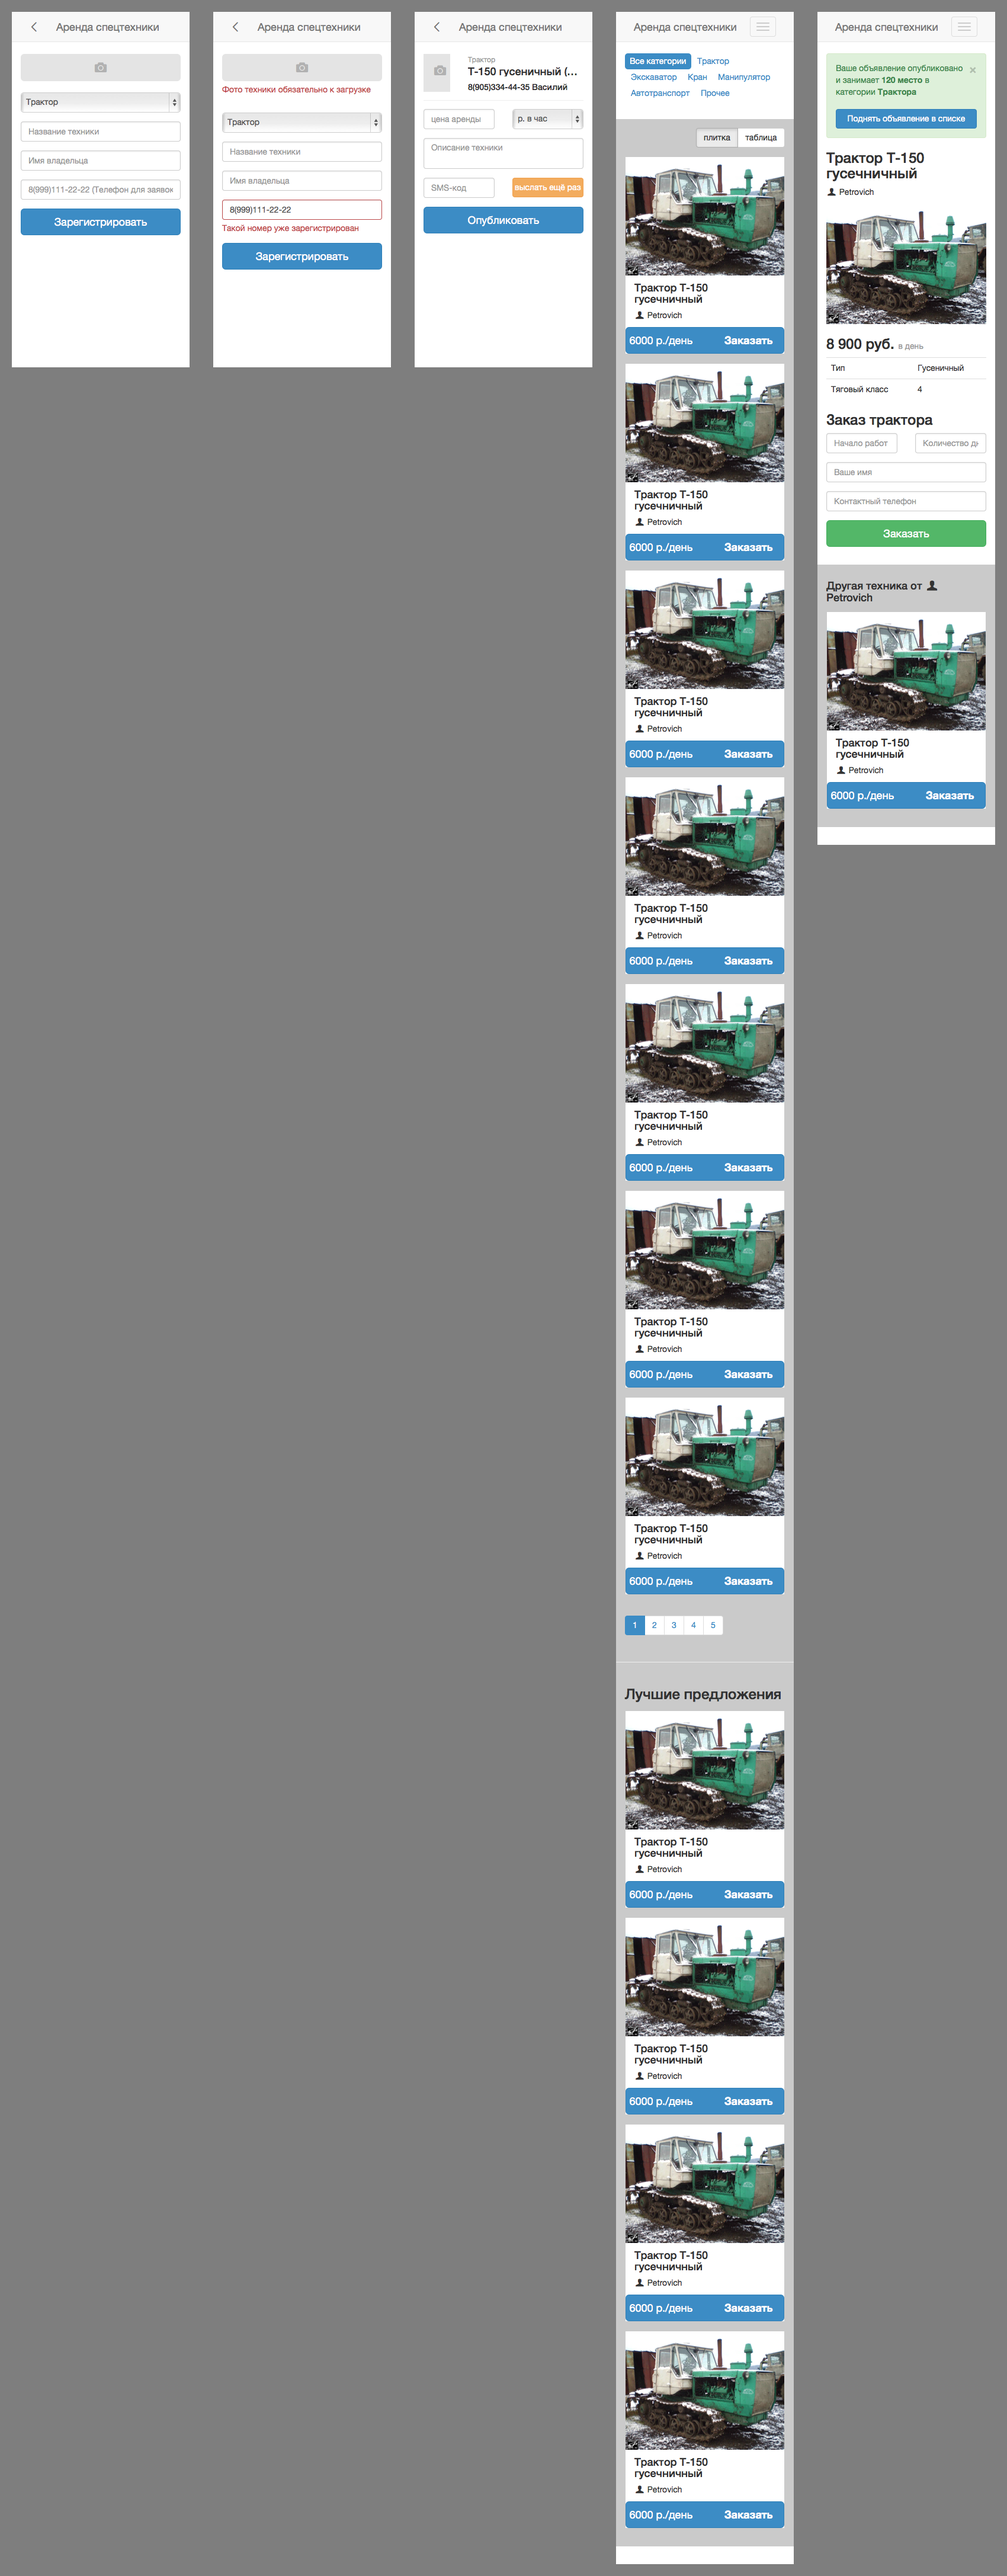
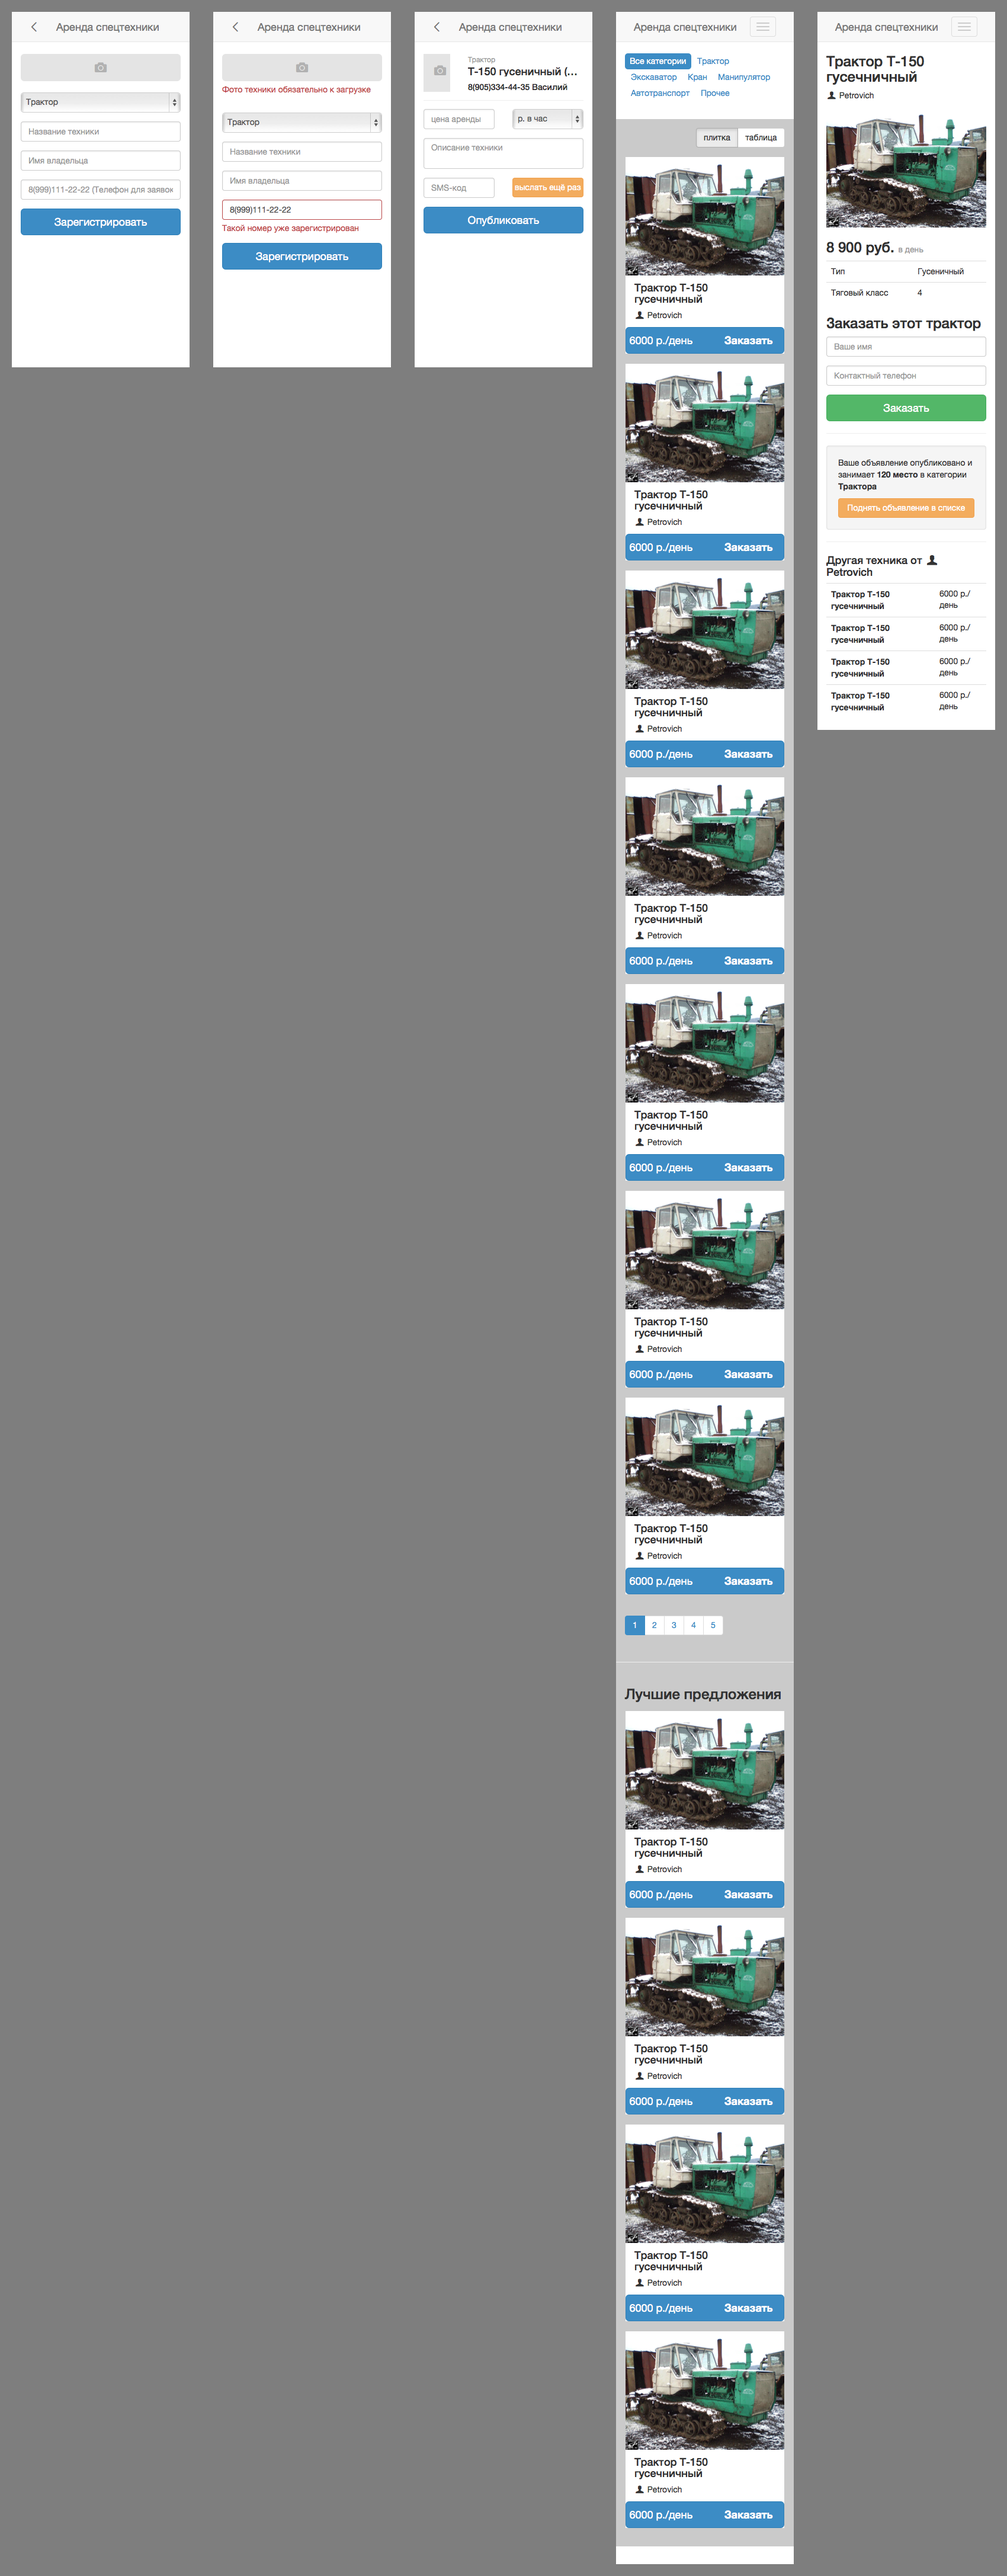
build

Changed region(s): [[0.8106, 0.0, 0.9976, 0.3415]]

diff --git a/source/stylesheets/_prototype.sass b/source/stylesheets/_prototype.sass
@@ -82,6 +82,9 @@ $photoblockHeight: 320px*0.3
       position: center top
       size: cover
 
+.tech-block-short
+  padding: $grid-gutter-width/2 0
+
 .tech-categories
   .nav.nav-pills
     & > li
